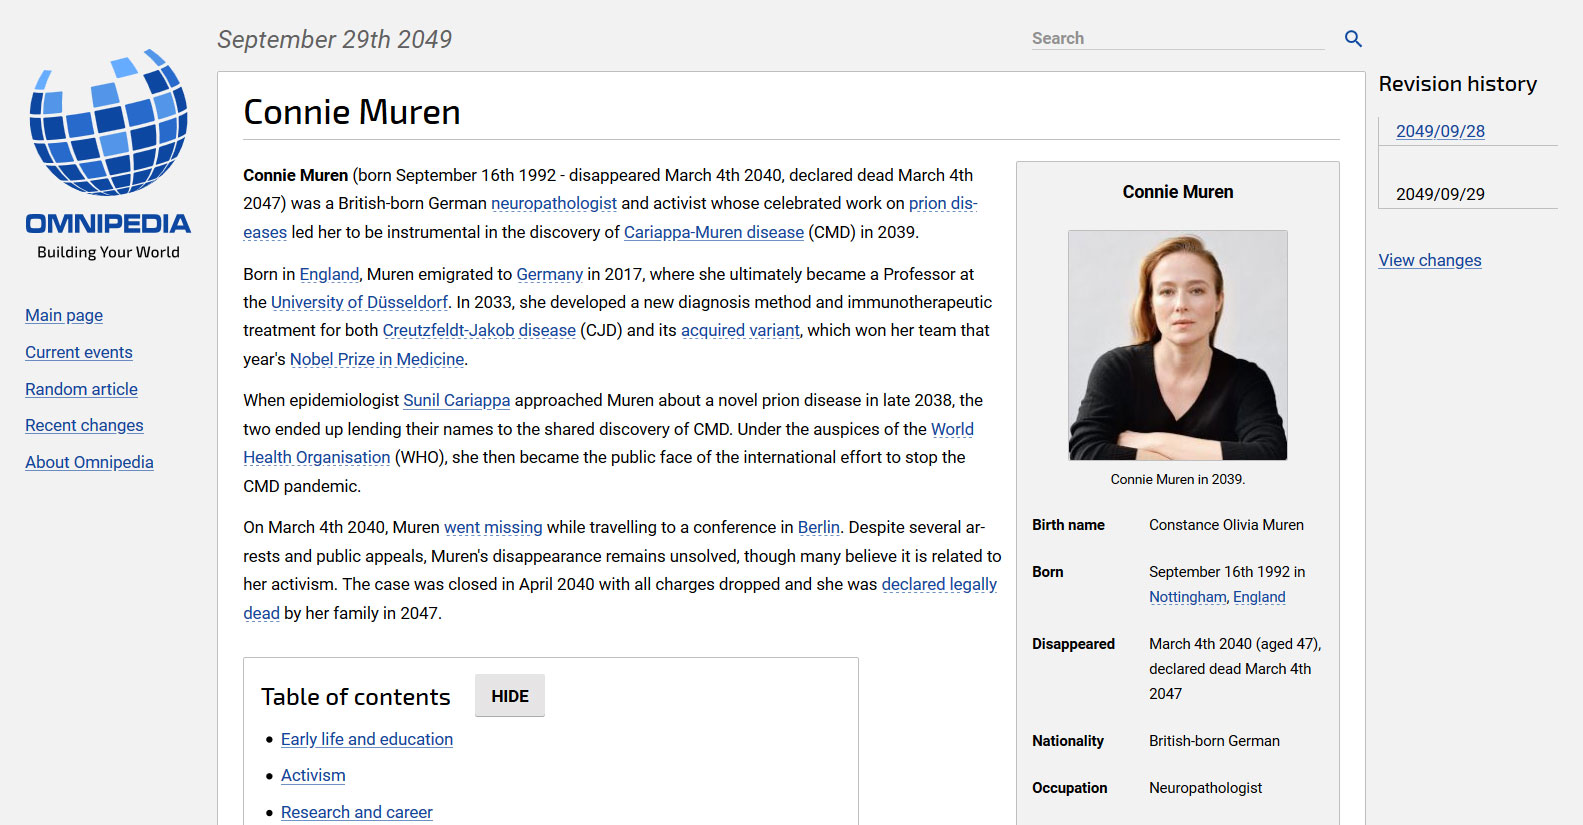
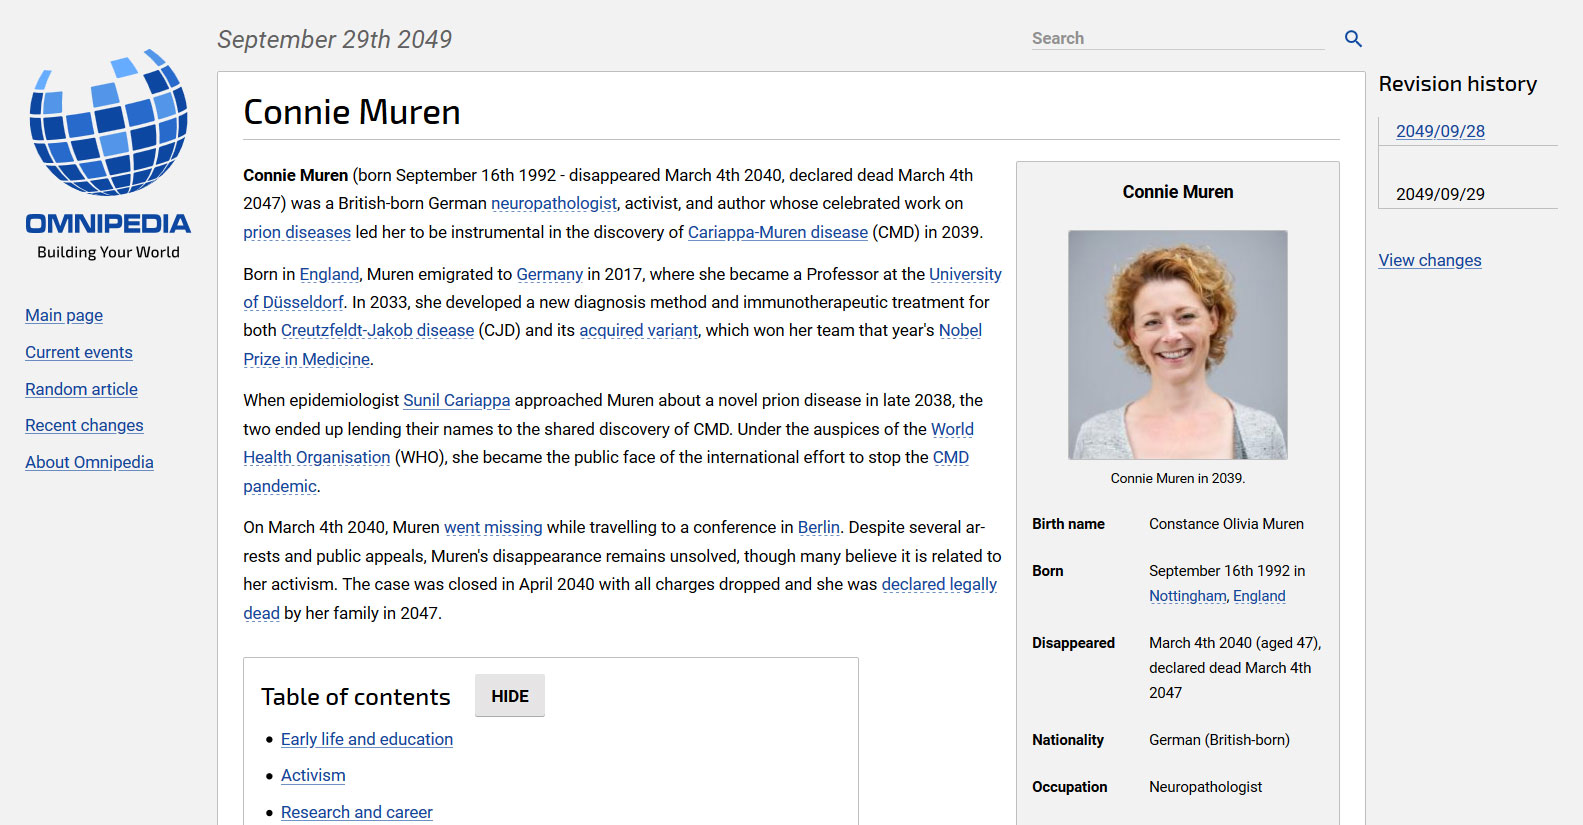
Replaced Connie Muren screenshot with new headshot.

diff --git a/public/index.htm b/public/index.htm
@@ -109,10 +109,10 @@
             <h3 class="features-section__heading" id="features-heading-section2" aria-label="A world that builds over time">A world that builds over time</h3>
 
             <div class="features-section__media" id="features-media-section2" aria-labelledby="features-media-element-section2">
-              <a href="images/screenshots/2049-09-29_connie_muren.jpg?v=1" class="external-link ambientimpact-is-image-link ambientimpact-link-has-image" target="_blank" rel="noopener noreferrer" data-photoswipe-linked-width="1583" data-photoswipe-linked-height="825">
+              <a href="images/screenshots/2049-09-29_connie_muren.jpg?v=2" class="external-link ambientimpact-is-image-link ambientimpact-link-has-image" target="_blank" rel="noopener noreferrer" data-photoswipe-linked-width="1583" data-photoswipe-linked-height="825">
                 <div class="intrinsic-ratio" style="max-width: 800px" aria-labelledby="features-media2">
                   <div class="intrinsic-ratio__ratio" style="padding-top: 52.116235%; display: inline;">
-                    <img src="images/screenshots/2049-09-29_connie_muren_thumbnail.jpg?v=1" width="800" height="417" loading="lazy" alt="A screenshot of Omnipedia article on Connie Muren on September 29th, 2049." id="features-media-element-section2" class="intrinsic-ratio__content intrinsic-ratio__content--image" />
+                    <img src="images/screenshots/2049-09-29_connie_muren_thumbnail.jpg?v=2" width="800" height="417" loading="lazy" alt="A screenshot of Omnipedia article on Connie Muren on September 29th, 2049." id="features-media-element-section2" class="intrinsic-ratio__content intrinsic-ratio__content--image" />
                   </div>
                 </div>
               </a>
